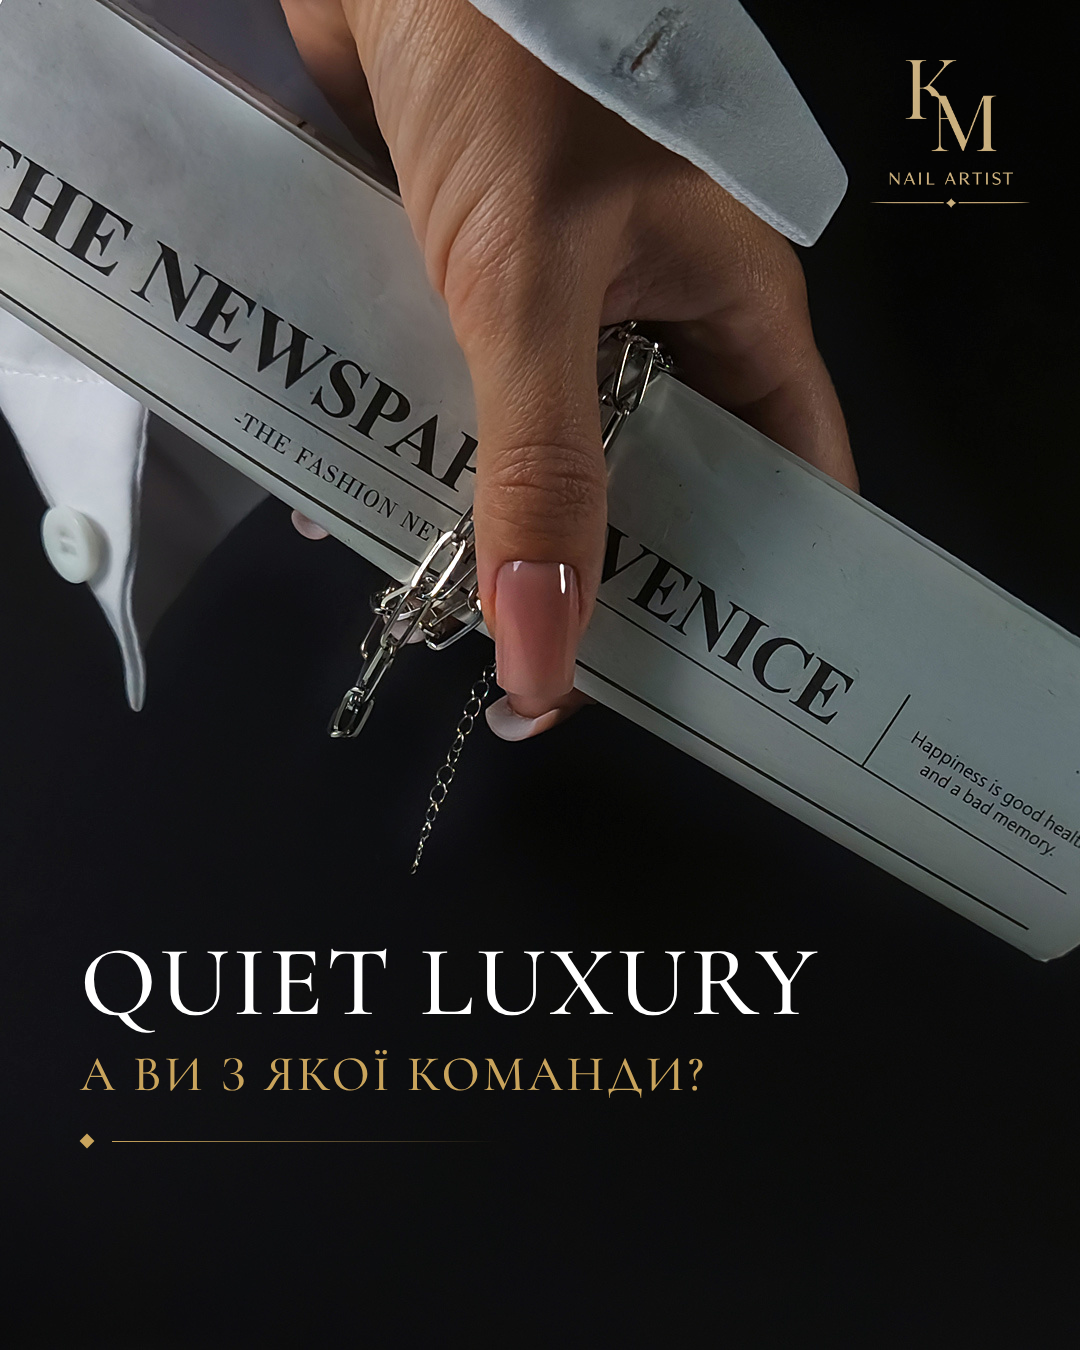
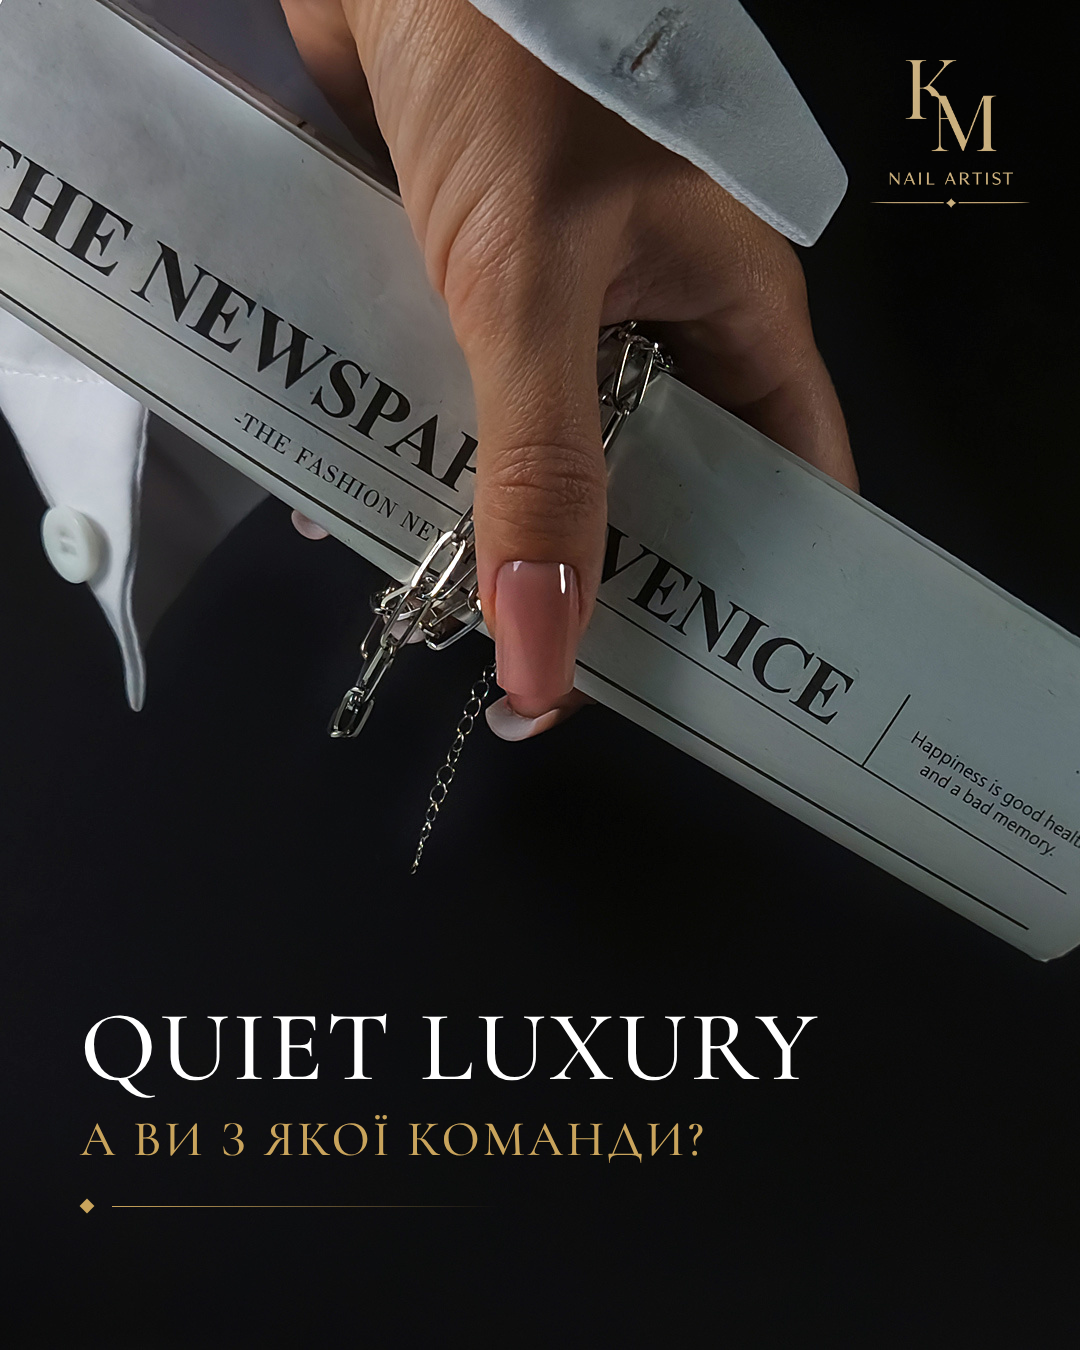
Retouch pale nail corner and lower the Quiet Luxury caption
Claude-Session: https://claude.ai/code/session_01MEGGhSdPE82PkZyTaQrXUD

Changed region(s): [[0.0611, 0.6844, 0.7639, 0.8711], [0.2139, 0.84, 0.6417, 0.8711]]

diff --git a/photo-selection/fix_corner.py b/photo-selection/fix_corner.py
@@ -1,0 +1,39 @@
+"""Точкова ретуш: кутик нігтя (низ біля вільного краю) вийшов блідішим і сірішим за решту покриття.
+Підтягуємо колір (a/b у Lab) ділянки до кольору того ж стовпчика трохи вище, яскравість не чіпаємо —
+так зберігається світлотінь і блиск. Маска м'яка, фон і ланцюжок відсікаються.
+Використання: python3 fix_corner.py вхід.jpg вихід.jpg x0 x1 y0 y1 ref_y0 ref_y1"""
+import sys
+
+import numpy as np
+from PIL import Image, ImageFilter
+
+sys.path.insert(0, __file__.rsplit('/', 1)[0])
+from match_color_lib import lab_to_srgb, srgb_to_lab  # noqa: E402
+
+src, dst = sys.argv[1], sys.argv[2]
+x0, x1, y0, y1, ry0, ry1 = map(int, sys.argv[3:9])
+
+img = Image.open(src).convert('RGB')
+rgb = np.asarray(img, np.float64)
+lab = srgb_to_lab(rgb)
+smooth = srgb_to_lab(np.asarray(img.filter(ImageFilter.GaussianBlur(2)), np.float64))
+H, W = lab.shape[:2]
+yy, xx = np.mgrid[0:H, 0:W]
+
+
+def ramp(v, a, b, f):
+    """1 всередині [a, b], плавно до 0 за f px назовні (smoothstep)."""
+    t = np.clip(np.minimum(v - a, b - v) / f + 1, 0, 1)
+    return t * t * (3 - 2 * t)
+
+
+chroma = np.hypot(lab[..., 1], lab[..., 2])
+nail = np.clip((lab[..., 0] - 20) / 8, 0, 1) * np.clip((chroma - 8) / 5, 0, 1)
+w = ramp(xx, x0, x1, 6) * ramp(yy, y0, y1, 10) * nail
+
+ref = np.median(smooth[ry0:ry1], axis=0)          # колір кожного стовпчика вище по нігтю
+out = lab.copy()
+out[..., 1:] += ref[None, :, 1:] - smooth[..., 1:]
+res = rgb * (1 - w[..., None]) + lab_to_srgb(out) * w[..., None]
+Image.fromarray(res.round().astype(np.uint8)).save(dst, quality=95, subsampling=0, optimize=True)
+print(dst)

diff --git a/photo-selection/match_color_lib.py b/photo-selection/match_color_lib.py
@@ -1,0 +1,21 @@
+"""Перетворення sRGB <-> CIE Lab (D65) для ретуш-скриптів."""
+import numpy as np
+
+
+def srgb_to_lab(rgb):
+    c = rgb / 255.0
+    c = np.where(c > 0.04045, ((c + 0.055) / 1.055) ** 2.4, c / 12.92)
+    m = np.array([[0.4124, 0.3576, 0.1805], [0.2126, 0.7152, 0.0722], [0.0193, 0.1192, 0.9505]])
+    xyz = c @ m.T / np.array([0.95047, 1.0, 1.08883])
+    f = np.where(xyz > 0.008856, np.cbrt(xyz), 7.787 * xyz + 16 / 116)
+    return np.stack([116 * f[..., 1] - 16, 500 * (f[..., 0] - f[..., 1]), 200 * (f[..., 1] - f[..., 2])], -1)
+
+
+def lab_to_srgb(lab):
+    fy = (lab[..., 0] + 16) / 116
+    f = np.stack([fy + lab[..., 1] / 500, fy, fy - lab[..., 2] / 200], -1)
+    xyz = np.where(f ** 3 > 0.008856, f ** 3, (f - 16 / 116) / 7.787) * np.array([0.95047, 1.0, 1.08883])
+    m = np.array([[3.2406, -1.5372, -0.4986], [-0.9689, 1.8758, 0.0415], [0.0557, -0.2040, 1.0570]])
+    c = xyz @ m.T
+    c = np.where(c > 0.0031308, 1.055 * np.clip(c, 0, None) ** (1 / 2.4) - 0.055, 12.92 * c)
+    return np.clip(c * 255, 0, 255)
